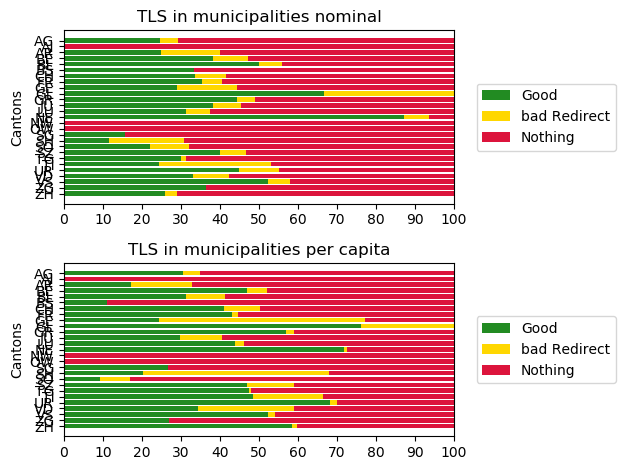
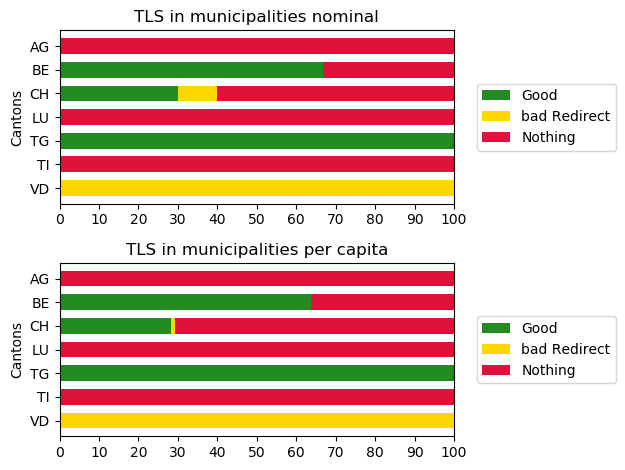
Readme, minor bug fixes

diff --git a/textprocess.py b/textprocess.py
@@ -5,7 +5,7 @@ import requests
 import time
 import urllib3
 
-http = urllib3.PoolManager()
+pool = urllib3.PoolManager()
 #make it look like a Firefox query.
 headers = {
     'User-Agent':
@@ -19,7 +19,7 @@ def processMain(mainList):
     #get every entry of municipality for themselves, first is just start
     entries = re.split('<tr>\n<td', mainList)[1:]
     tlsDict = dict(
-    )  #Canton->[Municipality, Canton, TLS, redirect correct, people]
+    )  #Canton->[Municipality, Canton, HTTP, HTTPS, people]
     entryCounter = 0
     for municipality in entries:
         tlsEntry = processEntry(municipality)
@@ -31,6 +31,7 @@ def processMain(mainList):
         entryCounter += 1
         if entryCounter % 10 == 0:
             print('Processed ' + str(entryCounter) + ' of ' + str(ALL))
+            break
             #I don't want to DoS, so I have to sleep.
             time.sleep(5)
     return tlsDict
@@ -60,7 +61,7 @@ def processEntry(municipality):
     municipality = re.split('href="', municipality, maxsplit=1)[1]
     cityWikiLink = 'https://de.wikipedia.org'
     (CITYLINK, municipality) = re.split('"', municipality, maxsplit=1)
-    (TLS, REDIRECT) = checkCity(cityWikiLink + CITYLINK)
+    (HTTP, HTTPS) = checkCity(cityWikiLink + CITYLINK)
     #get Canton
     CANTON = re.split('</a>', municipality)[2][-2:]
     #get PEOPLE
@@ -68,14 +69,14 @@ def processEntry(municipality):
     municipality = re.split('data-sort-value="', municipality)[1]
     PEOPLE = re.split('"', municipality)[0]
     PEOPLE = int(PEOPLE)
-    return (CITY, CANTON, TLS, REDIRECT, PEOPLE)
+    return (CITY, CANTON, HTTP, HTTPS, PEOPLE)
 
 
 #get the cityLink form the cities wikipediasite
 def checkCity(cityWikiLink):
     #download cityWikiLink
     try:
-        r = http.request('GET', cityWikiLink)  #get the actual site
+        r = pool.request('GET', cityWikiLink)  #get the actual site
     except Exception as ex:
         print(ex)
         print('Internet not working')
@@ -98,7 +99,7 @@ def checkTLS(cityLink):
     if cityLink[:5] == 'https':
         cityLink = 'http' + cityLink[5:]
 
-    (TLS, responseLink) = testLink(cityLink, True)
+    (HTTP, responseLink) = testLink(cityLink, True)
     #make responseLink&cityLink https
     if responseLink is not None:
         if not responseLink[:5] == 'https':
@@ -107,8 +108,8 @@ def checkTLS(cityLink):
         cityLink = 'https' + cityLink[4:]
     #check if HTTPS exists on https://cityLink or https://responseLink
 
-    REDIRECT = testLink(cityLink, False)[0] or testLink(responseLink, False)[0]
-    return (TLS, REDIRECT)
+    HTTPS = testLink(cityLink, False)[0] or testLink(responseLink, False)[0]
+    return (HTTP, HTTPS)
 
 
 def testLink(cityLink, MODE):  #MODE==False->HTTPS, MODE==True->HTTP

diff --git a/graph.py b/graph.py
@@ -10,7 +10,7 @@ def graphMain(tlsDict):
 
 def format(tlsDict):
     print('Start formatting.')
-    #tlsDict == Canton->[Municipality,canton, TLS, redirect correct, people]
+    #tlsDict == Canton->[Municipality,canton, HTTP, HTTPS, people]
     valuesPlot = dict(
     )  #canton ->[TLSNormal,RedirectNormal,All,TLSPeople,RedirectPeople,AllPeople]
     #setup national
@@ -27,7 +27,7 @@ def format(tlsDict):
     munWriter = csv.writer(munFile)
     canWriter = csv.writer(canFile)
     munWriter.writerow(
-        ['Municipality', 'Canton', 'TLS', 'correct redirect', 'people'])
+        ['Municipality', 'Canton', 'HTTP', 'HTTPS', 'people'])
     canWriter.writerow([
         'Canton', 'TLSNormal', 'RedirectNormal', 'AllNominal', 'TLSPeople',
         'RedirectPeople', 'AllPeople'
@@ -41,17 +41,17 @@ def format(tlsDict):
         RedirectPeople = 0  #also correct redirect
         AllPeople = 0
         for cityRecord in tlsDict[
-                canton]:  #[Municipality,canton,  TLS, redirect correct, people]
+                canton]:  #[Municipality,canton,  HTTP, HTTPS, people]
             #count canton
             All += 1
             cityPeople = cityRecord[4]
             AllPeople += cityPeople
             #write city to municipality csv
             munWriter.writerow(cityRecord)
-            if cityRecord[3] == True:  #good TLS&redirect
+            if cityRecord[2] == True:  #good TLS&redirect
                 RedirectNormal += 1
                 RedirectPeople += cityPeople
-            elif cityRecord[2] == True:  #good TLS&bad redirect
+            elif cityRecord[3] == True:  #good TLS&bad redirect
                 TLSNormal += 1
                 TLSPeople += cityPeople
             else:

diff --git a/README.md b/README.md
@@ -4,11 +4,12 @@ The Checker is written in Python 3 and uses the [requests library](http://docs.p
 ### Input
 This program takes the links to municipial websites of Switzerland from [wikipedia](https://de.wikipedia.org/wiki/Liste_Schweizer_Gemeinden "wikipedia") and checks if they use TLS.
 ### Output
-The checker puts out two .csv-files.
-One named municipalities(DATE).csv, which contains every municipality/city and a record for it.
-The record looks like this:
-Municipality,Canton,TLS,correct redirect,people
-The other is named cantons(DATE).csv.
-The record looks like this:
-Canton,TLSNormal,RedirectNormal,AllNominal,TLSPeople,RedirectPeople,AllPeople
-It also puts out an image where the values for each canton are plotted out.
+The checker puts out two .csv-files.  
+One named municipalities(DATE).csv, which contains every municipality/city and a record for it.  
+The record looks like this:  
+Municipality,Canton,TLS,correct redirect,people  
+The other is named cantons(DATE).csv.  
+The record looks like this:  
+Canton,TLSNormal,RedirectNormal,AllNominal,TLSPeople,RedirectPeople,AllPeople  
+It also puts out an image where the values for each canton are plotted out.  
+![Alt text](/graphTLS.png?raw=true "graph")
